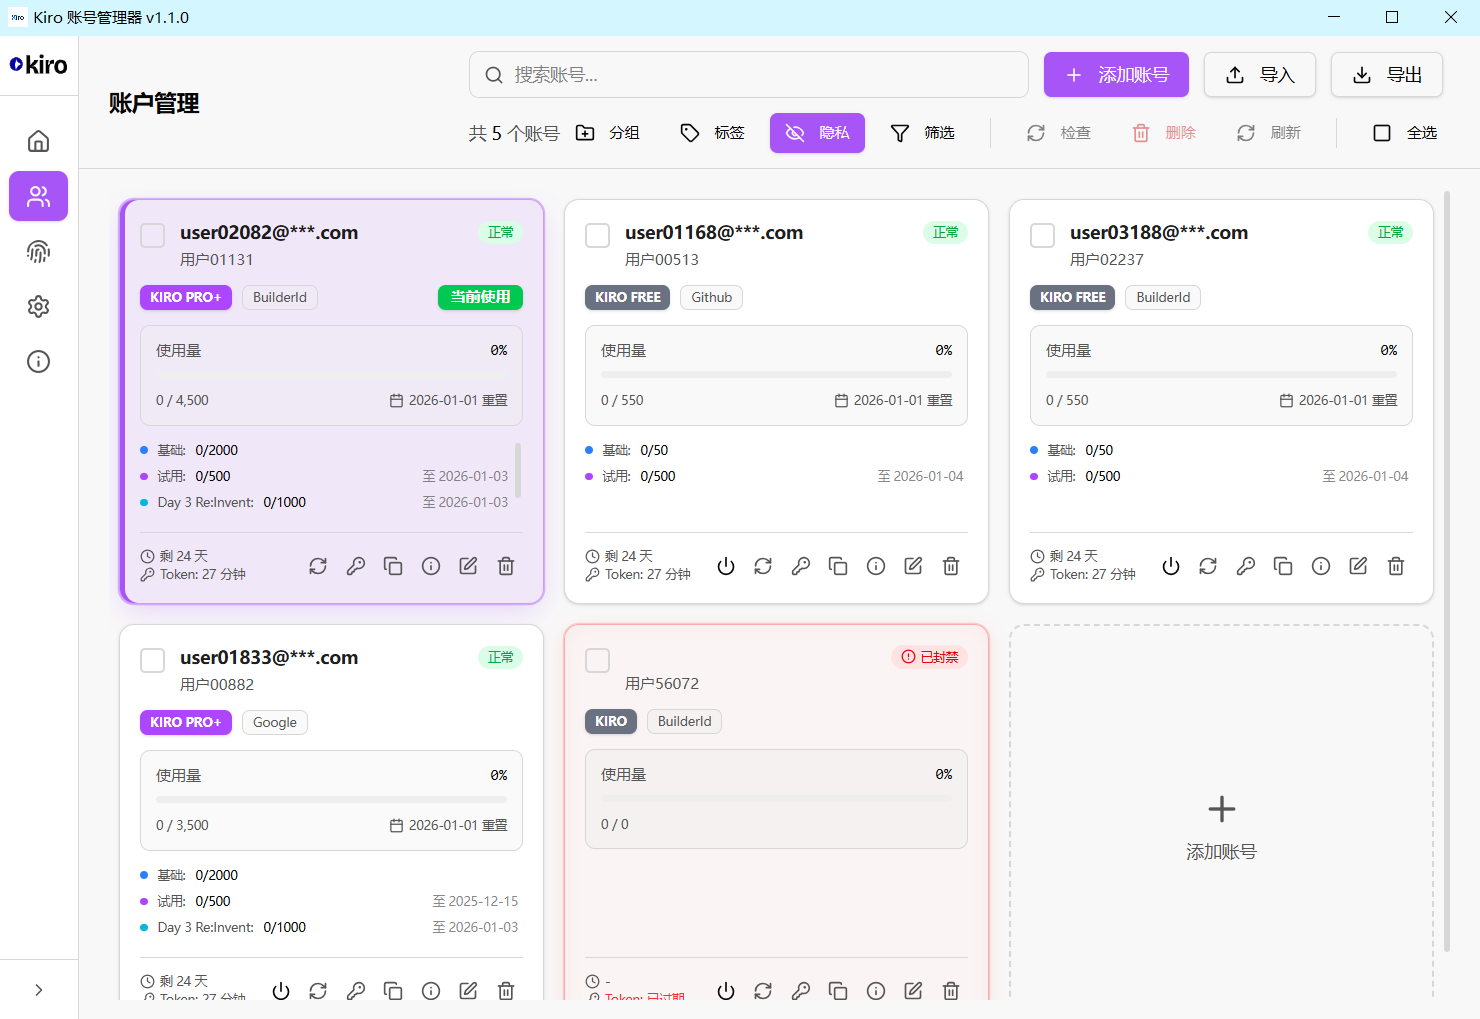
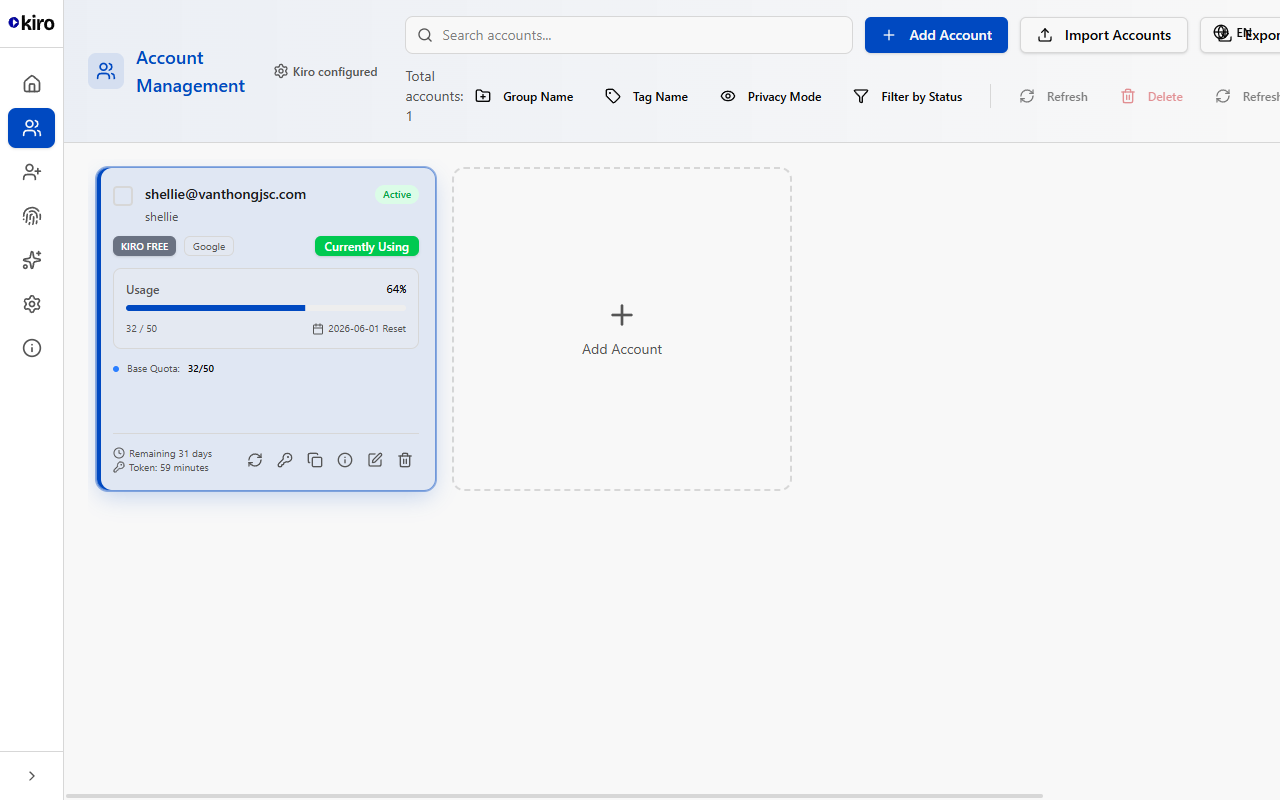
docs: add real app screenshots taken via Playwright automation

diff --git a/README.md b/README.md
@@ -20,20 +20,32 @@
 ## Screenshots
 
 <p align="center">
-  <img src="docs/screenshots/home.png" width="800" alt="Home – active account & usage stats" />
-  <br/><em>Home — active account, usage quota, subscription info</em>
+  <img src="docs/screenshots/home.png" width="800" alt="Home" />
+  <br/><em>Home — account overview, usage quota, subscription info</em>
+</p>
+
+<p align="center">
+  <img src="docs/screenshots/auto-register.png" width="800" alt="Auto Register" />
+  <br/><em>Auto Register — batch Kiro account registration with live log output</em>
 </p>
 
 <p align="center">
   <img src="docs/screenshots/accounts.png" width="800" alt="Account Manager" />
-  <br/><em>Account Manager — multi-account grid with status badges</em>
+  <br/><em>Account Manager — multi-account grid with status, usage, and quick actions</em>
 </p>
 
 <p align="center">
-  <img src="docs/screenshots/settings.png" width="800" alt="Settings" />
-  &nbsp;&nbsp;
   <img src="docs/screenshots/machine-id.png" width="800" alt="Machine ID" />
-  <br/><em>Settings &amp; Machine ID management</em>
+  &nbsp;
+  <img src="docs/screenshots/settings.png" width="800" alt="Settings" />
+  <br/><em>Machine ID management &amp; Settings</em>
+</p>
+
+<p align="center">
+  <img src="docs/screenshots/kiro-settings.png" width="800" alt="Kiro Settings" />
+  &nbsp;
+  <img src="docs/screenshots/about.png" width="800" alt="About" />
+  <br/><em>Kiro Settings &amp; About</em>
 </p>
 
 ---
